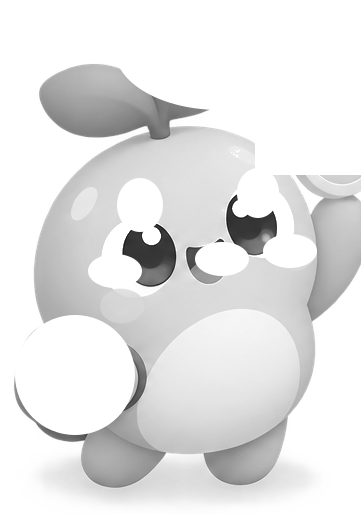
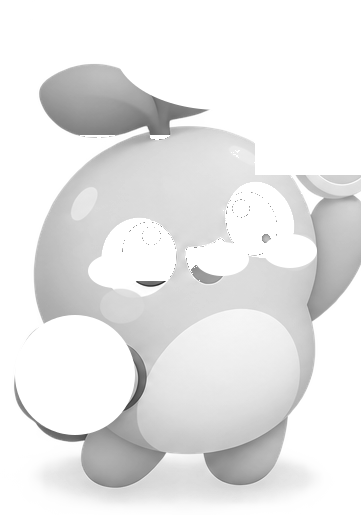
유년기~성체 눈동자 주위 남는 회색/라벤더 동그라미 수정
사용자가 스크린샷 4장으로 신고: 몸 색을 노란색으로 바꿔도 눈 주위에 원래 색(회색/
라벤더) 동그라미가 그대로 남아있었다. 원인은 눈동자(pupils) 마스크였다 — 흰자와 같은
문제를 놓쳤다: 눈동자를 실제보다 훨씬 큰 타원으로 잡아놨던 탓에, 기본 눈 색(#2D2A3E,
채도 낮은 남색)이 그 넓은 범위 전체에 칠해지면서 몸 색과 확연히 다른 회색 동그라미로
튀어 보였다.

흰자를 고칠 때 썼던 것과 같은 방식으로 통일했다 — 타원 대신, 눈 주변 범위(eyeBoxes)
안에서 실제로 어두운 픽셀만 골라 눈동자 모양 그대로 뽑아낸다. 이제 눈동자·흰자 둘 다
색 임계값 기반이라 몸 색을 바꾸면 눈 주위도 자연스럽게 같이 바뀐다.

diff --git a/design-assets/extract-pet-layers.js b/design-assets/extract-pet-layers.js
@@ -1,19 +1,14 @@
 // 참고 이미지(사용자 제공, design-assets/pet-mascot-reference.png)를 부위별 레이어로 분리하는
-// 스크립트(2026-09-15, 3차 수정) — public/pets/*-gray.png·*-fixed.png가 이 스크립트의 결과물이다.
+// 스크립트(2026-09-15, 4차 수정) — public/pets/*-gray.png·*-fixed.png가 이 스크립트의 결과물이다.
 // 재실행: `node design-assets/extract-pet-layers.js` (프로젝트 루트에서, sharp가 있어야 함).
 //
-// 이력:
-// - 1차: 원본 이미지에서 부위별로 크롭 후 도형(타원/사각형) 마스크로 분리.
-// - 2차: 알 단계 눈이 얇은 곡선인데 타원으로 근사해서 "회색 동그라미"로 보이던 문제, 잎사귀 타원이
-//   실제보다 작아 색이 안 바뀌던 문제를 고침.
-// - 3차(이번): 두 가지 버그를 더 고침 —
-//   1) sharp의 dest-in/dest-out은 마스크 이미지의 "알파 채널"로 동작하는데, luma 임계값 마스크를
-//      1채널(회색값만) PNG로 만들었더니 알파가 없어 "전체 불투명"으로 취급돼 마스크가 사실상 무시됨
-//      → 알 단계 body-gray가 통째로 비어서 몸/잎사귀 색이 전혀 안 바뀌는 버그로 이어졌다. 마스크는
-//      항상 RGBA로 만들고 패턴을 알파 채널에 넣도록 통일(buildMaskFromPredicate).
-//   2) 유년기·청소년기·성체의 "흰자" 부분을 눈 타원보다 크게 잡아 fixed로 굳혀놔서, 몸 색을 바꿔도
-//      눈 주위에 원래 라벤더색 고리/동그라미가 남아있었다(사용자 신고: "안에 원같은거 있고"). 타원
-//      대신 실제 흰색에 가까운 픽셀만 임계값으로 골라내는 방식으로 교체.
+// 이력(요약): 1차 도형 마스크 → 2차 알 단계 눈·잎사귀 보정 → 3차 dest-in/out이 알파 채널로만
+// 동작한다는 걸 몰라서 1채널 마스크가 무시되던 버그 수정 + 흰자 타원이 커서 몸 색 바꿔도 눈 주위에
+// 고리가 남던 문제 수정 → 4차(이번): "눈동자(pupils)" 타원도 흰자와 똑같은 문제가 있었다 — 실제
+// 눈동자보다 훨씬 큰 타원이라, 기본 눈 색(#2D2A3E, 채도 낮은 남색)이 그 큰 범위에 통으로 칠해지면서
+// 주변보다 확 튀는 "회색/라벤더 동그라미"로 보였다(사용자 신고, 2026-09-15 스크린샷 4장). 흰자와
+// 마찬가지로 타원 대신 "그 범위 안에서 실제로 어두운 픽셀만" 골라내는 방식으로 통일했다 — 이제
+// 눈동자·흰자 전부 색 임계값 기반이고, 타원은 볼·입·잎사귀·가계부·가방처럼 경계가 뚜렷한 부위에만 쓴다.
 const sharp = require("sharp");
 const path = require("path");
 
@@ -39,20 +34,21 @@ const CROPS = {
   "stage-3-sulking": { left: 1190, top: 285, width: 346, height: 430 },
 };
 
-// 부위별 마스크 도형. leaf는 실제 알파 경계보다 조금 더 넉넉하게 잡았다(작으면 "색이 안 바뀌는
-// 것처럼" 보이고, 조금 크더라도 z-order상 눈·볼 등 fixed/pupils 레이어가 위에 그려져서 티가 안 남).
+// 부위별 마스크. leaf/ledger/bag/볼/입처럼 경계가 뚜렷한 부위는 타원·사각형 도형으로, 눈동자·흰자처럼
+// 타원으로 근사하면 주변 픽셀까지 크게 잡혀버리는 부위는 eyeBoxes(탐색 범위) 안에서 색 임계값으로
+// 골라낸다(pupilDark=어두운 픽셀, eyeWhite=거의 흰 픽셀).
 const STAGES = {
   "stage-1-egg": {
     leaf: [ellipse(140, 65, 66, 50)],
-    // 알 단계 눈은 얇게 감은 곡선이라 타원 마스크 대신 이 사각형 범위 안에서 어두운 픽셀만 고른다.
-    eyeLumaBox: { boxes: [{ x0: 100, x1: 225, y0: 180, y1: 225 }], mode: "dark", threshold: 170 },
+    eyeBoxes: [{ x0: 100, x1: 225, y0: 180, y1: 225 }], // 감은 눈(얇은 곡선) — pupilDark만 해당
+    pupilDark: true,
     fixed: [ellipse(95, 232, 26, 16), ellipse(228, 220, 26, 16)], // 볼
   },
   "stage-2": {
     leaf: [ellipse(134, 42, 74, 46)],
-    pupils: [ellipse(97, 157, 17, 19), ellipse(182, 150, 17, 19)],
-    // 흰자 — 타원 대신, 눈 주변 넉넉한 범위 안에서 "거의 흰색(채도 낮고 아주 밝음)"인 픽셀만 고른다.
-    eyeWhiteBox: { boxes: [{ x0: 45, x1: 155, y0: 105, y1: 205 }, { x0: 130, x1: 240, y0: 98, y1: 200 }] },
+    eyeBoxes: [{ x0: 45, x1: 155, y0: 105, y1: 205 }, { x0: 130, x1: 240, y0: 98, y1: 200 }],
+    pupilDark: true,
+    eyeWhite: true,
     fixed: [
       ellipse(148, 197, 19, 13),
       ellipse(70, 188, 20, 14), ellipse(213, 182, 20, 14),
@@ -61,9 +57,10 @@ const STAGES = {
   },
   "stage-3": {
     leaf: [ellipse(135, 48, 78, 56)],
-    pupils: [ellipse(100, 178, 19, 21), ellipse(205, 168, 19, 21)],
     ledger: [rect(130, 246, 92, 64, 10)],
-    eyeWhiteBox: { boxes: [{ x0: 45, x1: 160, y0: 120, y1: 235 }, { x0: 150, x1: 265, y0: 110, y1: 225 }] },
+    eyeBoxes: [{ x0: 45, x1: 160, y0: 120, y1: 235 }, { x0: 150, x1: 265, y0: 110, y1: 225 }],
+    pupilDark: true,
+    eyeWhite: true,
     fixed: [
       ellipse(168, 214, 21, 15),
       ellipse(75, 205, 23, 16), ellipse(240, 198, 23, 16),
@@ -72,9 +69,10 @@ const STAGES = {
   },
   "stage-4": {
     leaf: [ellipse(220, 50, 105, 60)],
-    pupils: [ellipse(140, 205, 23, 27), ellipse(258, 193, 21, 25)],
     bag: [ellipse(75, 375, 60, 60), ellipse(65, 345, 15, 11)],
-    eyeWhiteBox: { boxes: [{ x0: 65, x1: 210, y0: 135, y1: 280 }, { x0: 185, x1: 330, y0: 125, y1: 265 }] },
+    eyeBoxes: [{ x0: 65, x1: 210, y0: 135, y1: 280 }, { x0: 185, x1: 330, y0: 125, y1: 265 }],
+    pupilDark: true,
+    eyeWhite: true,
     fixed: [
       ellipse(222, 259, 27, 17),
       ellipse(115, 271, 27, 17), ellipse(290, 251, 27, 17),
@@ -85,8 +83,9 @@ const STAGES = {
     // 크롭 직후 좌상단에 stage-4의 코인/반짝임이 새어 들어와서 지워야 한다(eraseFirst).
     eraseFirst: [rect(0, 0, 42, 148), rect(0, 140, 16, 40)],
     leaf: [ellipse(150, 85, 72, 55)],
-    pupils: [ellipse(108, 248, 19, 21), ellipse(220, 238, 19, 21)],
-    eyeWhiteBox: { boxes: [{ x0: 50, x1: 165, y0: 190, y1: 305 }, { x0: 160, x1: 275, y0: 180, y1: 295 }] },
+    eyeBoxes: [{ x0: 50, x1: 165, y0: 190, y1: 305 }, { x0: 160, x1: 275, y0: 180, y1: 295 }],
+    pupilDark: true,
+    eyeWhite: true,
     fixed: [
       ellipse(165, 286, 19, 11),
       ellipse(80, 266, 21, 14), ellipse(225, 259, 21, 14),
@@ -95,8 +94,12 @@ const STAGES = {
   },
 };
 
+const DARK_LUMA_THRESHOLD = 140; // 이보다 어두우면 눈동자(잉크)로 인정
+const WHITE_MIN_CHANNEL = 200; // 이보다 밝고
+const WHITE_MAX_SPREAD = 22; // 채널 간 차이가 이보다 작으면(=채도 낮음) 흰자로 인정
+
 // 픽셀 단위 마스크 공통 빌더 — predicate(r,g,b,a,x,y)가 true인 픽셀만 알파 255로 채운 RGBA PNG를
-// 만든다. dest-in/dest-out은 "알파 채널"로만 동작하므로 항상 4채널로 만들어야 한다(3차 수정 참고).
+// 만든다. dest-in/dest-out은 "알파 채널"로만 동작하므로 항상 4채널로 만들어야 한다.
 async function buildMaskFromPredicate(srcBuf, predicate) {
   const { data, info } = await sharp(srcBuf).raw().toBuffer({ resolveWithObject: true });
   const { width, height, channels } = info;
@@ -118,6 +121,18 @@ function inBoxes(boxes, x, y) {
   return boxes.some((b) => x >= b.x0 && x <= b.x1 && y >= b.y0 && y <= b.y1);
 }
 
+async function unionAlpha(pngBuffers) {
+  const bufs = await Promise.all(pngBuffers.map((s) => sharp(s).ensureAlpha().raw().toBuffer({ resolveWithObject: true })));
+  const { width, height, channels } = bufs[0].info;
+  const out = Buffer.alloc(width * height * channels);
+  for (const { data } of bufs) {
+    for (let i = channels - 1; i < data.length; i += channels) {
+      if (data[i] > out[i]) out[i] = data[i];
+    }
+  }
+  return sharp(out, { raw: { width, height, channels } }).png().toBuffer();
+}
+
 async function run() {
   for (const [stage, cfg] of Object.entries(STAGES)) {
     const crop = CROPS[stage];
@@ -129,11 +144,10 @@ async function run() {
     const w = crop.width, h = crop.height;
 
     const grayBuf = await sharp(srcBuf).greyscale().png().toBuffer();
-
     const holeBuffers = []; // body에서 뺄 마스크들 — dest-out에 그대로 쓴다.
 
-    // 부위별 회색 레이어(재염색용) — 도형 기반
-    for (const part of ["leaf", "pupils", "ledger", "bag"]) {
+    // 경계가 뚜렷한 부위(잎사귀/가계부/가방) — 도형 기반
+    for (const part of ["leaf", "ledger", "bag"]) {
       const shapes = cfg[part];
       if (!shapes) continue;
       const mask = maskSvg(w, h, shapes);
@@ -141,47 +155,33 @@ async function run() {
       await sharp(grayBuf).composite([{ input: mask, blend: "dest-in" }]).png().toFile(path.join(DIR, `${stage}-${part}-gray.png`));
     }
 
-    // 알 단계 눈(얇은 곡선) — 지정 범위 안의 어두운 픽셀만.
-    if (cfg.eyeLumaBox) {
-      const { boxes, threshold } = cfg.eyeLumaBox;
-      const eyeMask = await buildMaskFromPredicate(srcBuf, (r, g, b, a, x, y) => {
-        if (!inBoxes(boxes, x, y)) return false;
-        const luma = 0.3 * r + 0.59 * g + 0.11 * b;
-        return luma < threshold;
+    // 눈동자 — eyeBoxes 안에서 어두운 픽셀만(타원 대신 색 임계값, 2026-09-15 4차 수정으로 도입).
+    if (cfg.pupilDark) {
+      const pupilMask = await buildMaskFromPredicate(srcBuf, (r, g, b, a, x, y) => {
+        if (!inBoxes(cfg.eyeBoxes, x, y) || a <= 40) return false;
+        return 0.3 * r + 0.59 * g + 0.11 * b < DARK_LUMA_THRESHOLD;
       });
-      holeBuffers.push(eyeMask);
-      await sharp(grayBuf).composite([{ input: eyeMask, blend: "dest-in" }]).png().toFile(path.join(DIR, `${stage}-pupils-gray.png`));
+      holeBuffers.push(pupilMask);
+      await sharp(grayBuf).composite([{ input: pupilMask, blend: "dest-in" }]).png().toFile(path.join(DIR, `${stage}-pupils-gray.png`));
     }
 
-    // 흰자 — 지정 범위 안의 "거의 흰색(중성, 아주 밝음)" 픽셀만. 몸통(라벤더)은 b채널이 확연히 높아서
-    // 채도(최대-최소 채널 차)로 구분된다.
-    let fixedShapes = cfg.fixed ? [maskSvg(w, h, cfg.fixed)] : [];
-    if (cfg.eyeWhiteBox) {
-      const { boxes } = cfg.eyeWhiteBox;
+    // 고정 요소(원색 그대로) = 흰자(색 임계값, 있으면) ∪ 나머지 fixed 도형들
+    const fixedParts = cfg.fixed ? [maskSvg(w, h, cfg.fixed)] : [];
+    if (cfg.eyeWhite) {
       const whiteMask = await buildMaskFromPredicate(srcBuf, (r, g, b, a, x, y) => {
-        if (!inBoxes(boxes, x, y) || a <= 40) return false;
+        if (!inBoxes(cfg.eyeBoxes, x, y) || a <= 40) return false;
         const minC = Math.min(r, g, b), maxC = Math.max(r, g, b);
-        return minC > 200 && maxC - minC < 22;
+        return minC > WHITE_MIN_CHANNEL && maxC - minC < WHITE_MAX_SPREAD;
       });
-      fixedShapes.push(whiteMask);
+      fixedParts.push(whiteMask);
     }
-
-    // 고정 요소(원색 그대로) = 흰자 마스크 ∪ 나머지 fixed 도형들 — 전부 알파 채널만 보고 합친다.
-    if (fixedShapes.length > 0) {
-      const bufs = await Promise.all(fixedShapes.map((s) => sharp(s).raw().toBuffer({ resolveWithObject: true })));
-      const { width, height, channels } = bufs[0].info;
-      const union = Buffer.alloc(width * height * channels);
-      for (const { data } of bufs) {
-        for (let i = channels - 1; i < data.length; i += channels) {
-          if (data[i] > union[i]) union[i] = data[i];
-        }
-      }
-      const fixedMask = await sharp(union, { raw: { width, height, channels } }).png().toBuffer();
+    if (fixedParts.length > 0) {
+      const fixedMask = await unionAlpha(fixedParts);
       holeBuffers.push(fixedMask);
       await sharp(srcBuf).composite([{ input: fixedMask, blend: "dest-in" }]).png().toFile(path.join(DIR, `${stage}-fixed.png`));
     }
 
-    // body = 원본 알파 - 모든 구멍(도형/luma/흰자 마스크)
+    // body = 원본 알파 - 모든 구멍(도형/눈동자/흰자 마스크)
     await sharp(grayBuf)
       .composite(holeBuffers.map((buf) => ({ input: buf, blend: "dest-out" })))
       .png()
